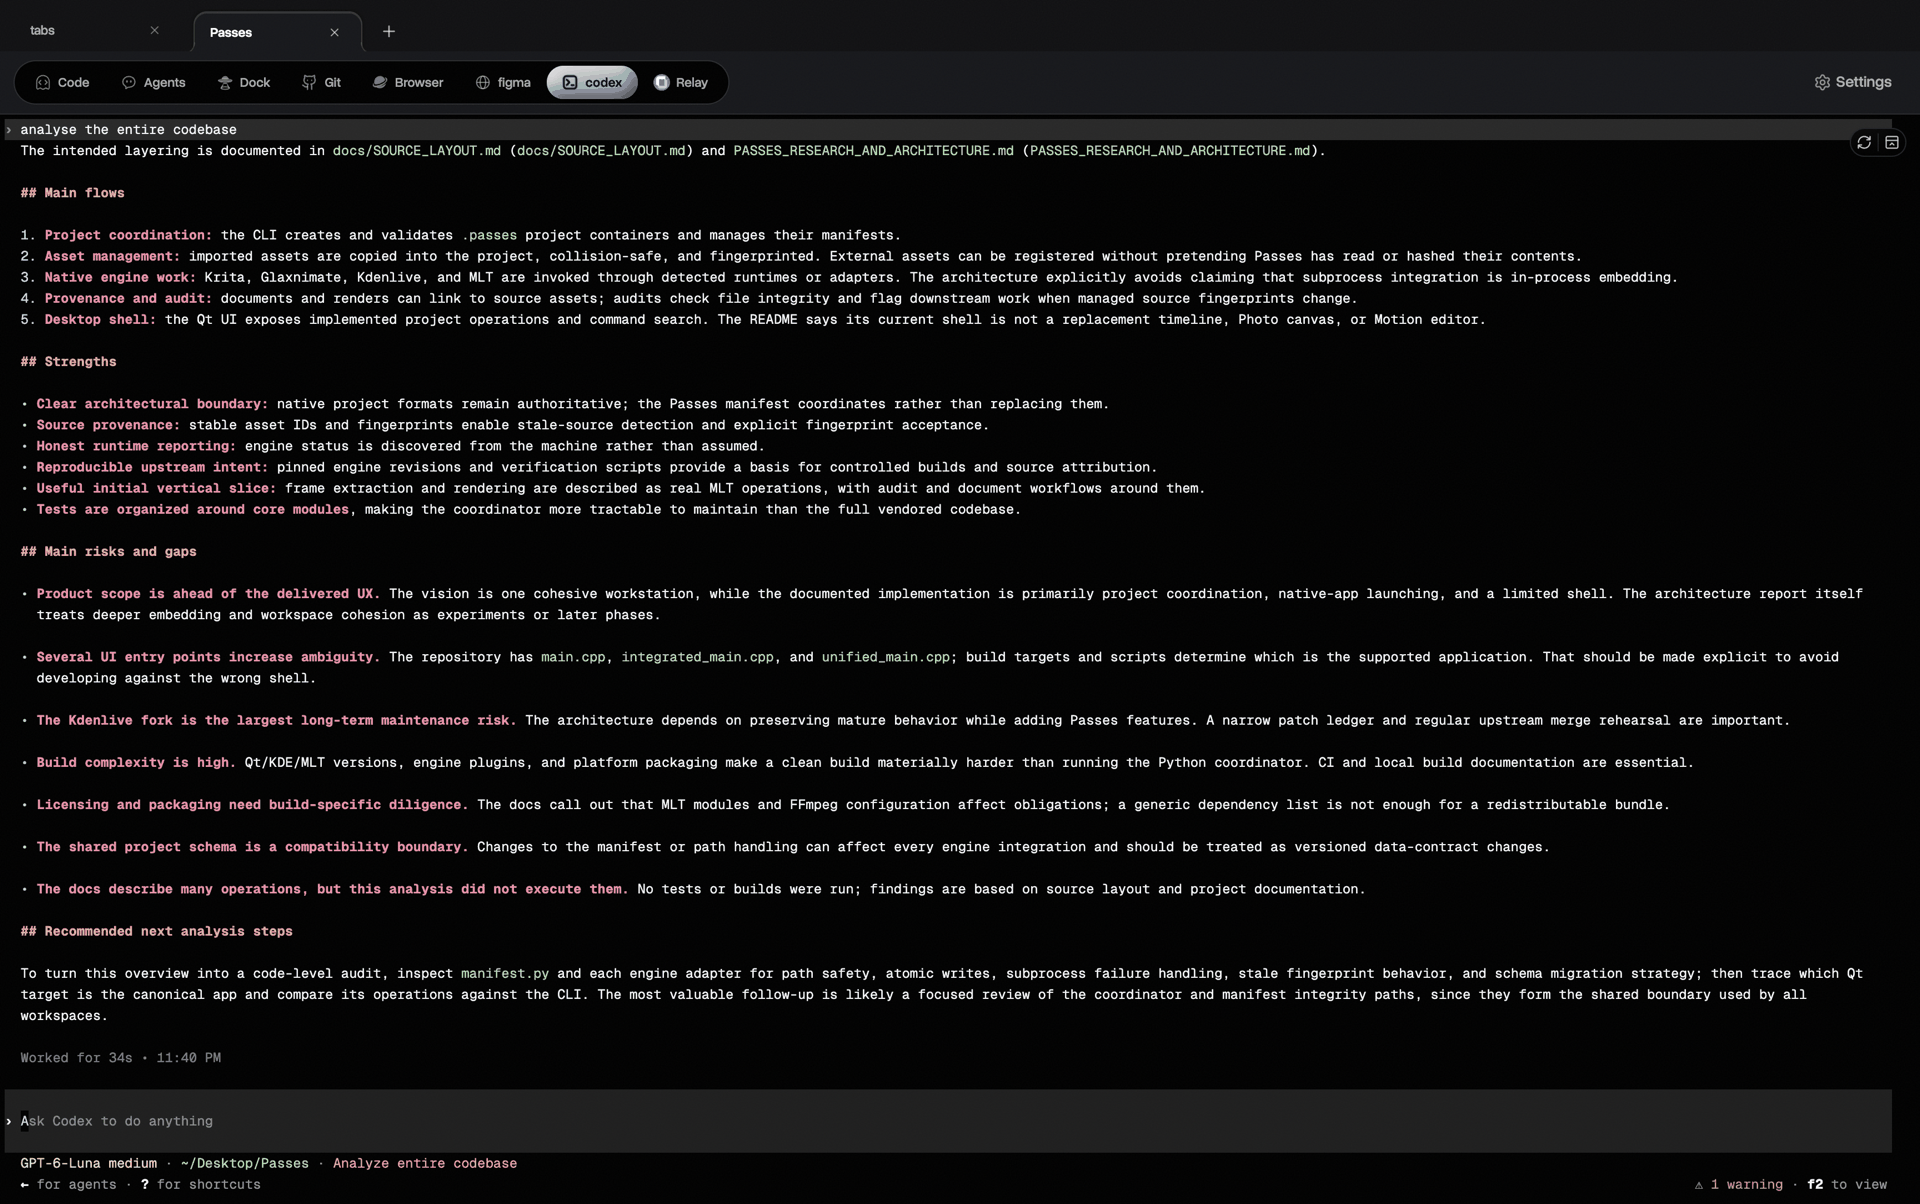
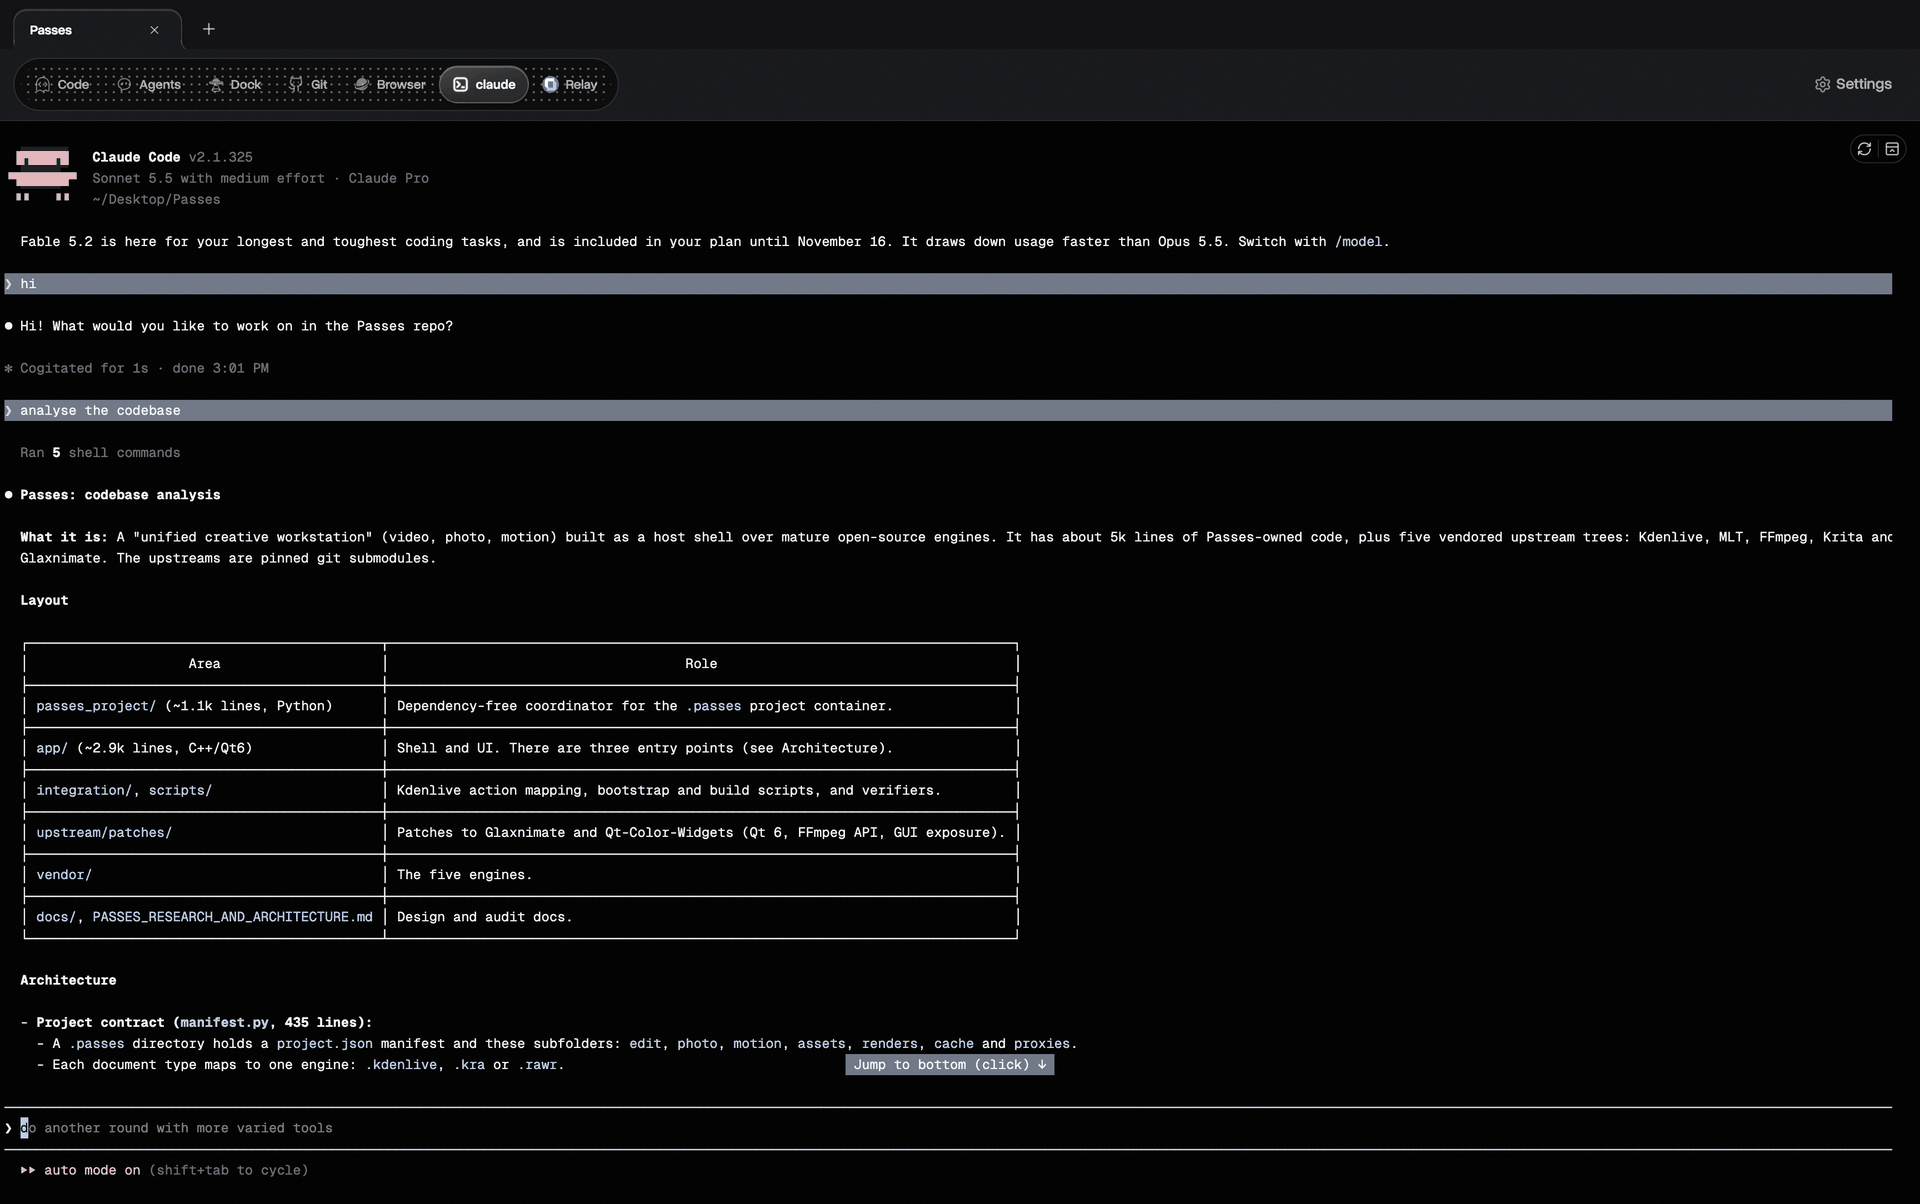
feat(marketing): show Claude Code in the CLI chapter and rename it from Terminal

diff --git a/tabs-app/apps/marketing/src/data/lab.ts b/tabs-app/apps/marketing/src/data/lab.ts
@@ -39,9 +39,9 @@ export const tools = [
   },
   {
     id: "cli",
-    name: "Terminal",
-    kicker: "Any command, its own tab",
-    line: "Give Claude Code, Codex or any command its own tab. Or flip a thread from chat to the agent's CLI with ⌘⇧J.",
+    name: "CLI",
+    kicker: "Agent CLIs, each in its own tab",
+    line: "Run Claude Code, Codex or any command line in its own tab, right beside your code. Or flip a thread from chat to the agent's CLI with ⌘⇧J.",
     mock: "cli",
   },
   {
